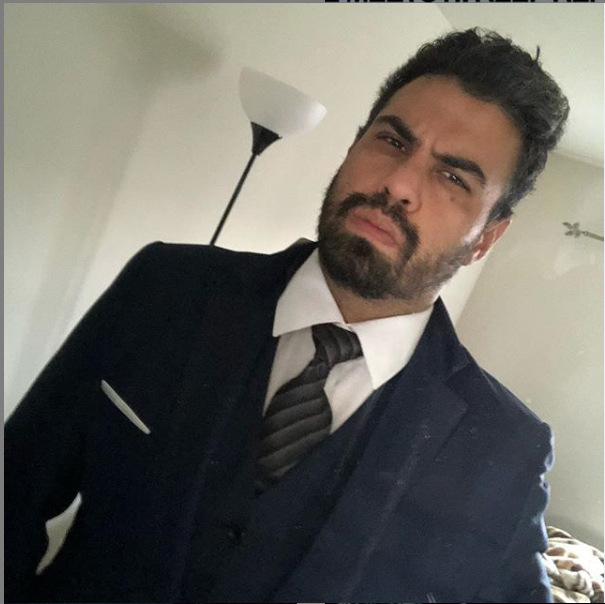
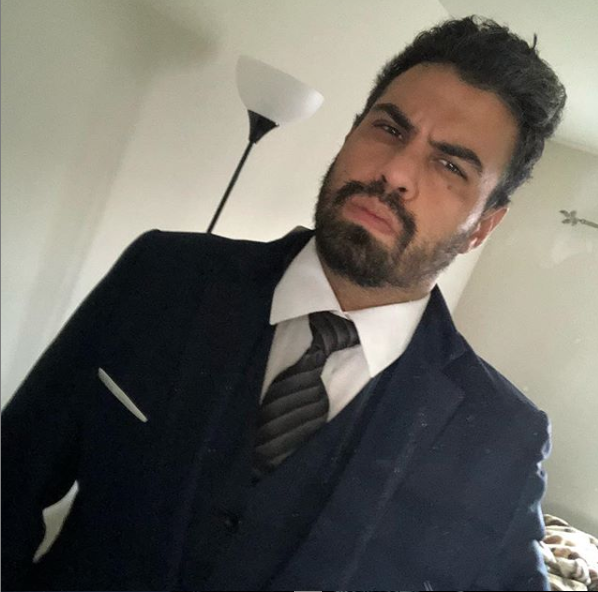
added img css stuff

diff --git a/css/index.css b/css/index.css
@@ -132,6 +132,13 @@ table {
   box-sizing: border-box;
 }
 @font-face {
+  font-family: 'Roboto Mono';
+  font-style: normal;
+  font-weight: 400;
+  font-display: swap;
+  src: local('Roboto Mono'), local('RobotoMono-Regular'), url(https://fonts.gstatic.com/s/robotomono/v7/L0x5DF4xlVMF-BfR8bXMIjhLq3o.ttf) format('truetype');
+}
+@font-face {
   font-family: 'Yeon Sung';
   font-style: normal;
   font-weight: 400;
@@ -152,7 +159,7 @@ p,
 table,
 td,
 th {
-  font-size: 1.6rem;
+  font-size: 1.8rem;
 }
 .topnav {
   padding: 2%;
@@ -161,6 +168,18 @@ th {
   justify-content: flex-end;
 }
 .topnav a {
+  padding: 2%;
+  font-family: 'Roboto Mono', monospace;
+  font-size: 1.4rem;
+}
+.suit-img img {
+  width: 25%;
+  padding-bottom: 1%;
+}
+.topcont {
+  display: flex;
+  flex-direction: column;
+  background-color: gray;
   padding: 2%;
 }
 .SB {

diff --git a/less/index.less b/less/index.less
@@ -54,8 +54,9 @@ table {
     box-sizing: border-box;
 }
 
-@import url('https://fonts.googleapis.com/css?family=Yeon+Sung&display=swap');
+@import url('https://fonts.googleapis.com/css?family=Roboto+Mono|Yeon+Sung&display=swap');
 
+@rob:'Roboto Mono', monospace;
 @yeo:'Yeon Sung', cursive;
 .pad(){
 	padding: 2%;
@@ -69,7 +70,7 @@ html, body {
 }
 
 h1, h2, a, p, table, td, th {
-	font-size: 1.6rem;
+	font-size: 1.8rem;
 }
 
 .topnav{
@@ -79,9 +80,27 @@ h1, h2, a, p, table, td, th {
 	justify-content: flex-end;
   a{
 	  padding:2%;
+	  font-family: @rob;
+	  font-size: 1.4rem;
   }
 }
+.suit-img img{
+	width: 25%;
+	padding-bottom:1%;
+}
+.topcont{
+	display: flex;
+	flex-direction: column;
+	background-color: gray;
+	.pad();
 
+	.toptitle{
+
+	}
+
+}
 .SB{
 	font-family: @yeo;
 }
+
+

diff --git a/index.html b/index.html
@@ -30,10 +30,10 @@
 </header>
 <!-- Header ends here -->
 <!-- Top content of page -->
+<section class="topcont">
 <div class="suit-img">
   <img src="/images/jose suit.png" alt="Profile self-image">  
 </div>
-<section class="topcont">
   <br>
   <div class="Top-title">
     <h1>Jose Rivera - Full Stack Developer</h1>
@@ -62,6 +62,7 @@
      <li> 3 </li> 
   </div>
   <div class="midworkhist">
+    <!-- TABLE wrk hist  -->
     <h2>Work History</h2>
   <table style="width: 100%;">
     <tr>
@@ -76,12 +77,15 @@
     </tr>
     
   </table>
+  <!-- Table end -->
+  <!-- Footer -->
 
   </div>
   <footer>
     <p>Copyright goes here and stuff</p>
 
   </footer>
+  <!-- footer end -->
 
 
  </section>
